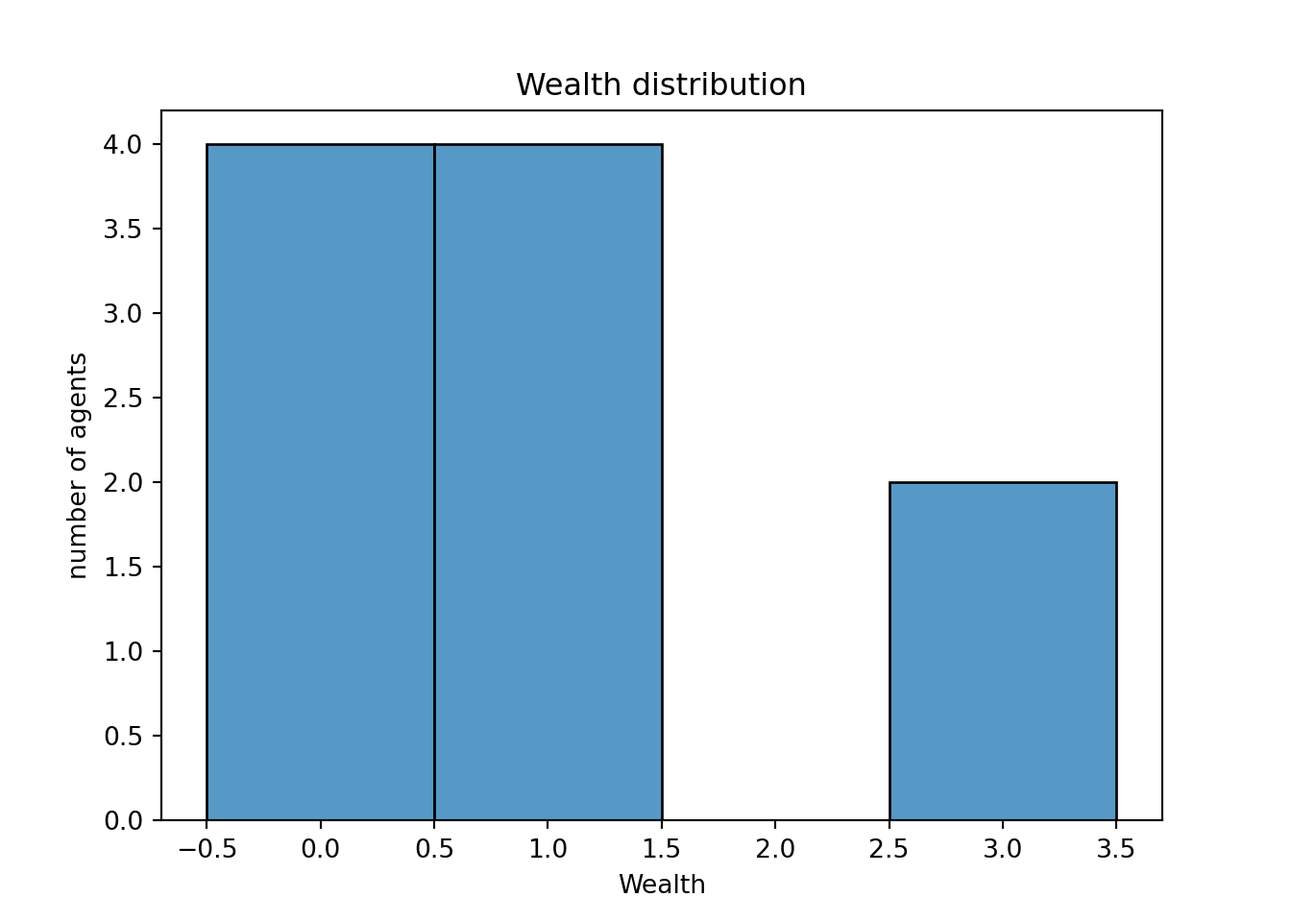
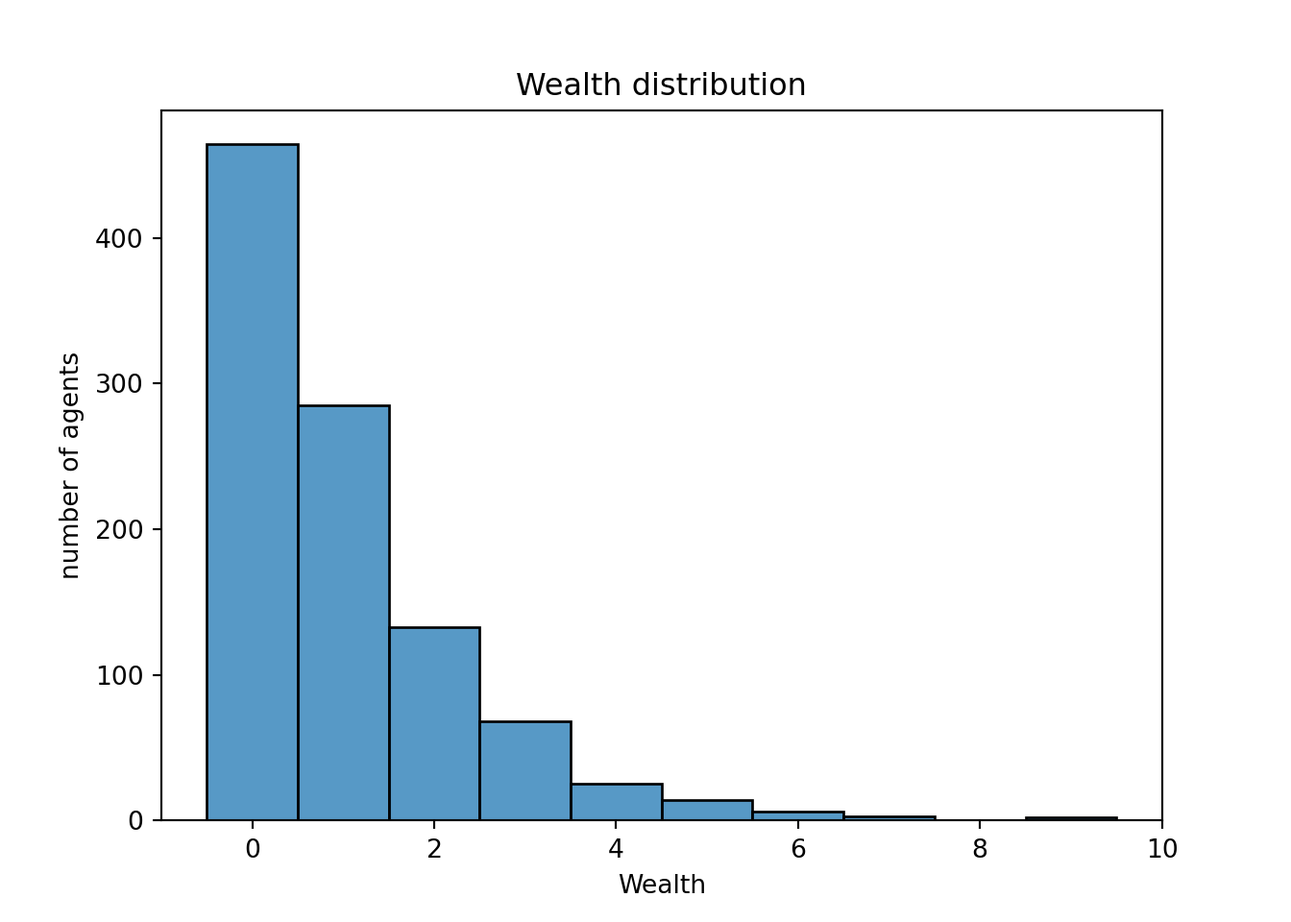
update

diff --git a/index.html b/index.html
@@ -96,18 +96,16 @@ pre > code.sourceCode > span > a:first-child::before { text-decoration: underlin
   <ul>
   <li><a href="#创建-agent-类" id="toc-创建-agent-类" class="nav-link" data-scroll-target="#创建-agent-类"><span class="header-section-number">2.1</span> 创建 Agent 类</a></li>
   <li><a href="#创建模型类" id="toc-创建模型类" class="nav-link" data-scroll-target="#创建模型类"><span class="header-section-number">2.2</span> 创建模型类</a></li>
-  <li><a href="#让-agents-do" id="toc-让-agents-do" class="nav-link" data-scroll-target="#让-agents-do"><span class="header-section-number">2.3</span> 让 Agents “do”</a></li>
-  <li><a href="#运行模型" id="toc-运行模型" class="nav-link" data-scroll-target="#运行模型"><span class="header-section-number">2.4</span> 运行模型</a>
+  <li><a href="#让-agents-do" id="toc-让-agents-do" class="nav-link" data-scroll-target="#让-agents-do"><span class="header-section-number">2.3</span> 让 Agents “do”</a>
   <ul>
-  <li><a href="#模型修改练习" id="toc-模型修改练习" class="nav-link" data-scroll-target="#模型修改练习"><span class="header-section-number">2.4.1</span> 模型修改练习</a></li>
+  <li><a href="#运行模型" id="toc-运行模型" class="nav-link" data-scroll-target="#运行模型"><span class="header-section-number">2.3.1</span> 运行模型</a></li>
+  <li><a href="#模型修改练习" id="toc-模型修改练习" class="nav-link" data-scroll-target="#模型修改练习"><span class="header-section-number">2.3.2</span> 模型修改练习</a></li>
   </ul></li>
-  <li><a href="#agents-exchange" id="toc-agents-exchange" class="nav-link" data-scroll-target="#agents-exchange"><span class="header-section-number">2.5</span> Agents Exchange</a>
+  <li><a href="#agents-交换财富" id="toc-agents-交换财富" class="nav-link" data-scroll-target="#agents-交换财富"><span class="header-section-number">2.4</span> Agents 交换财富</a>
   <ul>
-  <li><a href="#run-the-model" id="toc-run-the-model" class="nav-link" data-scroll-target="#run-the-model"><span class="header-section-number">2.5.1</span> Run the Model</a></li>
-  <li><a href="#visualize-the-model" id="toc-visualize-the-model" class="nav-link" data-scroll-target="#visualize-the-model"><span class="header-section-number">2.5.2</span> Visualize the Model</a>
-  <ul class="collapse">
-  <li><a href="#or-use-reticulate-to-import-data-into-r-and-use-ggplot2-to-visualize" id="toc-or-use-reticulate-to-import-data-into-r-and-use-ggplot2-to-visualize" class="nav-link" data-scroll-target="#or-use-reticulate-to-import-data-into-r-and-use-ggplot2-to-visualize"><span class="header-section-number">2.5.2.1</span> Or use reticulate to import data into R and use ggplot2 to visualize</a></li>
-  </ul></li>
+  <li><a href="#运行模型-1" id="toc-运行模型-1" class="nav-link" data-scroll-target="#运行模型-1"><span class="header-section-number">2.4.1</span> 运行模型</a></li>
+  <li><a href="#可视化" id="toc-可视化" class="nav-link" data-scroll-target="#可视化"><span class="header-section-number">2.4.2</span> 可视化</a></li>
+  <li><a href="#或者传入-r-中用-ggolot2-可视化" id="toc-或者传入-r-中用-ggolot2-可视化" class="nav-link" data-scroll-target="#或者传入-r-中用-ggolot2-可视化"><span class="header-section-number">2.4.3</span> 或者传入 R 中用 ggolot2 可视化</a></li>
   </ul></li>
   </ul></li>
   </ul>
@@ -200,7 +198,7 @@ pre > code.sourceCode > span > a:first-child::before { text-decoration: underlin
 <span id="cb4-4"><a href="#cb4-4" aria-hidden="true" tabindex="-1"></a>    <span class="co">#初始化，每次使用 MoneyAgent 创建新对象时都会使用如下初始化</span></span>
 <span id="cb4-5"><a href="#cb4-5" aria-hidden="true" tabindex="-1"></a>    <span class="kw">def</span> <span class="fu">__init__</span>(<span class="va">self</span>, model): <span class="co">#self代表当前对象，model 代表模型对象</span></span>
 <span id="cb4-6"><a href="#cb4-6" aria-hidden="true" tabindex="-1"></a>      </span>
-<span id="cb4-7"><a href="#cb4-7" aria-hidden="true" tabindex="-1"></a>        <span class="co"># 将参数 model 传递给父类 (mesa.Agent)，让Agent知道自己所属的模型</span></span>
+<span id="cb4-7"><a href="#cb4-7" aria-hidden="true" tabindex="-1"></a>        <span class="co"># 将父类中的参数 model (mesa.Agent) 传入，让Agent知道自己所属的模型</span></span>
 <span id="cb4-8"><a href="#cb4-8" aria-hidden="true" tabindex="-1"></a>        <span class="bu">super</span>().<span class="fu">__init__</span>(model)</span>
 <span id="cb4-9"><a href="#cb4-9" aria-hidden="true" tabindex="-1"></a></span>
 <span id="cb4-10"><a href="#cb4-10" aria-hidden="true" tabindex="-1"></a>        <span class="co"># 创建 Agent 的变量 wealth 并设置初始值</span></span>
@@ -259,9 +257,8 @@ pre > code.sourceCode > span > a:first-child::before { text-decoration: underlin
 <span id="cb6-29"><a href="#cb6-29" aria-hidden="true" tabindex="-1"></a>        <span class="co">#随机重新排序 Agent 的激活顺序，并调用每个 Agent 的 say_hi 方法</span></span>
 <span id="cb6-30"><a href="#cb6-30" aria-hidden="true" tabindex="-1"></a>        <span class="va">self</span>.agents.shuffle_do(<span class="st">"say_hi"</span>)</span></code><button title="Copy to Clipboard" class="code-copy-button"><i class="bi"></i></button></pre></div>
 </div>
-</section>
-<section id="运行模型" class="level2" data-number="2.4">
-<h2 data-number="2.4" class="anchored" data-anchor-id="运行模型"><span class="header-section-number">2.4</span> 运行模型</h2>
+<section id="运行模型" class="level3" data-number="2.3.1">
+<h3 data-number="2.3.1" class="anchored" data-anchor-id="运行模型"><span class="header-section-number">2.3.1</span> 运行模型</h3>
 <p>创建一个模型对象 (object) 并运行它的 step 方法。</p>
 <div class="cell language-marker" data-display-language="true">
 <div class="sourceCode cell-code" id="cb7"><pre class="sourceCode python code-with-copy"><code class="sourceCode python"><span id="cb7-1"><a href="#cb7-1" aria-hidden="true" tabindex="-1"></a><span class="co">#创建模型对象 starter_model，使用 MoneyModel 类</span></span>
@@ -271,16 +268,16 @@ pre > code.sourceCode > span > a:first-child::before { text-decoration: underlin
 <span id="cb7-5"><a href="#cb7-5" aria-hidden="true" tabindex="-1"></a><span class="co">#运行模型的 step 方法，激活所有 Agent</span></span>
 <span id="cb7-6"><a href="#cb7-6" aria-hidden="true" tabindex="-1"></a>starter_model.step()</span></code><button title="Copy to Clipboard" class="code-copy-button"><i class="bi"></i></button></pre></div>
 <div class="cell-output cell-output-stdout">
-<pre><code>Hi, I am an agent, you can call me 10.
-Hi, I am an agent, you can call me 4.
+<pre><code>Hi, I am an agent, you can call me 7.
+Hi, I am an agent, you can call me 10.
 Hi, I am an agent, you can call me 6.
-Hi, I am an agent, you can call me 2.
-Hi, I am an agent, you can call me 9.
 Hi, I am an agent, you can call me 3.
 Hi, I am an agent, you can call me 8.
 Hi, I am an agent, you can call me 5.
+Hi, I am an agent, you can call me 4.
 Hi, I am an agent, you can call me 1.
-Hi, I am an agent, you can call me 7.</code></pre>
+Hi, I am an agent, you can call me 2.
+Hi, I am an agent, you can call me 9.</code></pre>
 </div>
 </div>
 <p>如果在创建对象时传入了 seed 参数，则每次运行模型时 Agent 的顺序会保持一致。</p>
@@ -300,8 +297,9 @@ Hi, I am an agent, you can call me 2.
 Hi, I am an agent, you can call me 8.</code></pre>
 </div>
 </div>
-<section id="模型修改练习" class="level3" data-number="2.4.1">
-<h3 data-number="2.4.1" class="anchored" data-anchor-id="模型修改练习"><span class="header-section-number">2.4.1</span> 模型修改练习</h3>
+</section>
+<section id="模型修改练习" class="level3" data-number="2.3.2">
+<h3 data-number="2.3.2" class="anchored" data-anchor-id="模型修改练习"><span class="header-section-number">2.3.2</span> 模型修改练习</h3>
 <p>在原有模型的基础上，让 Agent 在激活时输出自己的 wealth。</p>
 <div class="cell language-marker" data-display-language="true">
 <div class="sourceCode cell-code" id="cb11"><pre class="sourceCode python code-with-copy"><code class="sourceCode python"><span id="cb11-1"><a href="#cb11-1" aria-hidden="true" tabindex="-1"></a><span class="kw">class</span> MoneyAgent(mesa.Agent):</span>
@@ -334,82 +332,79 @@ Hi, I am an agent, you can call me 8.</code></pre>
 <span id="cb11-28"><a href="#cb11-28" aria-hidden="true" tabindex="-1"></a>starter_model <span class="op">=</span> MoneyModel(<span class="dv">10</span>)</span>
 <span id="cb11-29"><a href="#cb11-29" aria-hidden="true" tabindex="-1"></a>starter_model.step()</span></code><button title="Copy to Clipboard" class="code-copy-button"><i class="bi"></i></button></pre></div>
 <div class="cell-output cell-output-stdout">
-<pre><code>Hi, I am an agent 3,and I have 1 dollars.
-Hi, I am an agent 1,and I have 1 dollars.
-Hi, I am an agent 6,and I have 1 dollars.
-Hi, I am an agent 10,and I have 1 dollars.
-Hi, I am an agent 8,and I have 1 dollars.
-Hi, I am an agent 7,and I have 1 dollars.
-Hi, I am an agent 5,and I have 1 dollars.
+<pre><code>Hi, I am an agent 8,and I have 1 dollars.
 Hi, I am an agent 2,and I have 1 dollars.
-Hi, I am an agent 9,and I have 1 dollars.
-Hi, I am an agent 4,and I have 1 dollars.</code></pre>
+Hi, I am an agent 1,and I have 1 dollars.
+Hi, I am an agent 4,and I have 1 dollars.
+Hi, I am an agent 6,and I have 1 dollars.
+Hi, I am an agent 7,and I have 1 dollars.
+Hi, I am an agent 10,and I have 1 dollars.
+Hi, I am an agent 3,and I have 1 dollars.
+Hi, I am an agent 5,and I have 1 dollars.
+Hi, I am an agent 9,and I have 1 dollars.</code></pre>
 </div>
 </div>
 </section>
 </section>
-<section id="agents-exchange" class="level2" data-number="2.5">
-<h2 data-number="2.5" class="anchored" data-anchor-id="agents-exchange"><span class="header-section-number">2.5</span> Agents Exchange</h2>
+<section id="agents-交换财富" class="level2" data-number="2.4">
+<h2 data-number="2.4" class="anchored" data-anchor-id="agents-交换财富"><span class="header-section-number">2.4</span> Agents 交换财富</h2>
 <div class="cell language-marker" data-display-language="true">
 <div class="sourceCode cell-code" id="cb13"><pre class="sourceCode python code-with-copy"><code class="sourceCode python"><span id="cb13-1"><a href="#cb13-1" aria-hidden="true" tabindex="-1"></a><span class="kw">class</span> MoneyAgent(mesa.Agent):</span>
 <span id="cb13-2"><a href="#cb13-2" aria-hidden="true" tabindex="-1"></a>    <span class="co">"""An agent with fixed initial wealth."""</span></span>
 <span id="cb13-3"><a href="#cb13-3" aria-hidden="true" tabindex="-1"></a></span>
 <span id="cb13-4"><a href="#cb13-4" aria-hidden="true" tabindex="-1"></a>    <span class="kw">def</span> <span class="fu">__init__</span>(<span class="va">self</span>, model):</span>
-<span id="cb13-5"><a href="#cb13-5" aria-hidden="true" tabindex="-1"></a>        <span class="co"># Pass the parameters to the parent class.</span></span>
-<span id="cb13-6"><a href="#cb13-6" aria-hidden="true" tabindex="-1"></a>        <span class="bu">super</span>().<span class="fu">__init__</span>(model)</span>
-<span id="cb13-7"><a href="#cb13-7" aria-hidden="true" tabindex="-1"></a></span>
-<span id="cb13-8"><a href="#cb13-8" aria-hidden="true" tabindex="-1"></a>        <span class="co"># Create the agent's variable and set the initial values.</span></span>
-<span id="cb13-9"><a href="#cb13-9" aria-hidden="true" tabindex="-1"></a>        <span class="va">self</span>.wealth <span class="op">=</span> <span class="dv">1</span></span>
-<span id="cb13-10"><a href="#cb13-10" aria-hidden="true" tabindex="-1"></a></span>
-<span id="cb13-11"><a href="#cb13-11" aria-hidden="true" tabindex="-1"></a>    <span class="kw">def</span> exchange(<span class="va">self</span>):</span>
-<span id="cb13-12"><a href="#cb13-12" aria-hidden="true" tabindex="-1"></a>        <span class="co"># Verify agent has some wealth</span></span>
-<span id="cb13-13"><a href="#cb13-13" aria-hidden="true" tabindex="-1"></a>        <span class="cf">if</span> <span class="va">self</span>.wealth <span class="op">&gt;</span> <span class="dv">0</span>:</span>
+<span id="cb13-5"><a href="#cb13-5" aria-hidden="true" tabindex="-1"></a>        <span class="bu">super</span>().<span class="fu">__init__</span>(model)</span>
+<span id="cb13-6"><a href="#cb13-6" aria-hidden="true" tabindex="-1"></a>        <span class="va">self</span>.wealth <span class="op">=</span> <span class="dv">1</span></span>
+<span id="cb13-7"><a href="#cb13-7" aria-hidden="true" tabindex="-1"></a>        </span>
+<span id="cb13-8"><a href="#cb13-8" aria-hidden="true" tabindex="-1"></a>    <span class="co"># 定义 exchange 方法，让 Agent 交换财富</span></span>
+<span id="cb13-9"><a href="#cb13-9" aria-hidden="true" tabindex="-1"></a>    <span class="kw">def</span> exchange(<span class="va">self</span>):</span>
+<span id="cb13-10"><a href="#cb13-10" aria-hidden="true" tabindex="-1"></a>        <span class="cf">if</span> <span class="va">self</span>.wealth <span class="op">&gt;</span> <span class="dv">0</span>: <span class="co">#有钱才能转账</span></span>
+<span id="cb13-11"><a href="#cb13-11" aria-hidden="true" tabindex="-1"></a>            <span class="co">#self.random, 是继承自 mesa.Agent 的随机数生成器</span></span>
+<span id="cb13-12"><a href="#cb13-12" aria-hidden="true" tabindex="-1"></a>            <span class="co">#.choice(...) 在列表中随机选择一个 Agent</span></span>
+<span id="cb13-13"><a href="#cb13-13" aria-hidden="true" tabindex="-1"></a>            <span class="co">#这里的self.model是在上一步—__init__中传入的模型对象</span></span>
 <span id="cb13-14"><a href="#cb13-14" aria-hidden="true" tabindex="-1"></a>            other_agent <span class="op">=</span> <span class="va">self</span>.random.choice(<span class="va">self</span>.model.agents)</span>
-<span id="cb13-15"><a href="#cb13-15" aria-hidden="true" tabindex="-1"></a>            <span class="cf">if</span> other_agent <span class="kw">is</span> <span class="kw">not</span> <span class="va">None</span>:</span>
-<span id="cb13-16"><a href="#cb13-16" aria-hidden="true" tabindex="-1"></a>                other_agent.wealth <span class="op">+=</span> <span class="dv">1</span></span>
-<span id="cb13-17"><a href="#cb13-17" aria-hidden="true" tabindex="-1"></a>                <span class="va">self</span>.wealth <span class="op">-=</span> <span class="dv">1</span></span>
-<span id="cb13-18"><a href="#cb13-18" aria-hidden="true" tabindex="-1"></a></span>
+<span id="cb13-15"><a href="#cb13-15" aria-hidden="true" tabindex="-1"></a>            </span>
+<span id="cb13-16"><a href="#cb13-16" aria-hidden="true" tabindex="-1"></a>            <span class="cf">if</span> other_agent <span class="kw">is</span> <span class="kw">not</span> <span class="va">None</span>: <span class="co">#确保选到了一个 Agent</span></span>
+<span id="cb13-17"><a href="#cb13-17" aria-hidden="true" tabindex="-1"></a>                other_agent.wealth <span class="op">+=</span> <span class="dv">1</span></span>
+<span id="cb13-18"><a href="#cb13-18" aria-hidden="true" tabindex="-1"></a>                <span class="va">self</span>.wealth <span class="op">-=</span> <span class="dv">1</span></span>
 <span id="cb13-19"><a href="#cb13-19" aria-hidden="true" tabindex="-1"></a></span>
-<span id="cb13-20"><a href="#cb13-20" aria-hidden="true" tabindex="-1"></a><span class="kw">class</span> MoneyModel(mesa.Model):</span>
-<span id="cb13-21"><a href="#cb13-21" aria-hidden="true" tabindex="-1"></a>    <span class="co">"""A model with some number of agents."""</span></span>
-<span id="cb13-22"><a href="#cb13-22" aria-hidden="true" tabindex="-1"></a></span>
-<span id="cb13-23"><a href="#cb13-23" aria-hidden="true" tabindex="-1"></a>    <span class="kw">def</span> <span class="fu">__init__</span>(<span class="va">self</span>, n):</span>
-<span id="cb13-24"><a href="#cb13-24" aria-hidden="true" tabindex="-1"></a>        <span class="bu">super</span>().<span class="fu">__init__</span>()</span>
-<span id="cb13-25"><a href="#cb13-25" aria-hidden="true" tabindex="-1"></a>        <span class="va">self</span>.num_agents <span class="op">=</span> n</span>
-<span id="cb13-26"><a href="#cb13-26" aria-hidden="true" tabindex="-1"></a></span>
-<span id="cb13-27"><a href="#cb13-27" aria-hidden="true" tabindex="-1"></a>        <span class="co"># Create agents</span></span>
+<span id="cb13-20"><a href="#cb13-20" aria-hidden="true" tabindex="-1"></a></span>
+<span id="cb13-21"><a href="#cb13-21" aria-hidden="true" tabindex="-1"></a><span class="kw">class</span> MoneyModel(mesa.Model):</span>
+<span id="cb13-22"><a href="#cb13-22" aria-hidden="true" tabindex="-1"></a>    <span class="co">"""A model with some number of agents."""</span></span>
+<span id="cb13-23"><a href="#cb13-23" aria-hidden="true" tabindex="-1"></a></span>
+<span id="cb13-24"><a href="#cb13-24" aria-hidden="true" tabindex="-1"></a>    <span class="kw">def</span> <span class="fu">__init__</span>(<span class="va">self</span>, n, seed<span class="op">=</span><span class="va">None</span>):</span>
+<span id="cb13-25"><a href="#cb13-25" aria-hidden="true" tabindex="-1"></a>        <span class="bu">super</span>().<span class="fu">__init__</span>(seed <span class="op">=</span> seed)</span>
+<span id="cb13-26"><a href="#cb13-26" aria-hidden="true" tabindex="-1"></a>        <span class="va">self</span>.num_agents <span class="op">=</span> n</span>
+<span id="cb13-27"><a href="#cb13-27" aria-hidden="true" tabindex="-1"></a></span>
 <span id="cb13-28"><a href="#cb13-28" aria-hidden="true" tabindex="-1"></a>        MoneyAgent.create_agents(model<span class="op">=</span><span class="va">self</span>, n<span class="op">=</span>n)</span>
 <span id="cb13-29"><a href="#cb13-29" aria-hidden="true" tabindex="-1"></a></span>
 <span id="cb13-30"><a href="#cb13-30" aria-hidden="true" tabindex="-1"></a>    <span class="kw">def</span> step(<span class="va">self</span>):</span>
 <span id="cb13-31"><a href="#cb13-31" aria-hidden="true" tabindex="-1"></a>        <span class="co">"""Advance the model by one step."""</span></span>
 <span id="cb13-32"><a href="#cb13-32" aria-hidden="true" tabindex="-1"></a></span>
-<span id="cb13-33"><a href="#cb13-33" aria-hidden="true" tabindex="-1"></a>        <span class="co"># This function psuedo-randomly reorders the list of agent objects and</span></span>
-<span id="cb13-34"><a href="#cb13-34" aria-hidden="true" tabindex="-1"></a>        <span class="co"># then iterates through calling the function passed in as the parameter</span></span>
-<span id="cb13-35"><a href="#cb13-35" aria-hidden="true" tabindex="-1"></a>        <span class="va">self</span>.agents.shuffle_do(<span class="st">"exchange"</span>)</span></code><button title="Copy to Clipboard" class="code-copy-button"><i class="bi"></i></button></pre></div>
+<span id="cb13-33"><a href="#cb13-33" aria-hidden="true" tabindex="-1"></a>        <span class="va">self</span>.agents.shuffle_do(<span class="st">"exchange"</span>)</span></code><button title="Copy to Clipboard" class="code-copy-button"><i class="bi"></i></button></pre></div>
 </div>
-<section id="run-the-model" class="level3" data-number="2.5.1">
-<h3 data-number="2.5.1" class="anchored" data-anchor-id="run-the-model"><span class="header-section-number">2.5.1</span> Run the Model</h3>
+<section id="运行模型-1" class="level3" data-number="2.4.1">
+<h3 data-number="2.4.1" class="anchored" data-anchor-id="运行模型-1"><span class="header-section-number">2.4.1</span> 运行模型</h3>
 <div class="cell language-marker" data-display-language="true">
-<div class="sourceCode cell-code" id="cb14"><pre class="sourceCode python code-with-copy"><code class="sourceCode python"><span id="cb14-1"><a href="#cb14-1" aria-hidden="true" tabindex="-1"></a>model <span class="op">=</span> MoneyModel(<span class="dv">10</span>)  <span class="co"># Tells the model to create 10 agents</span></span>
-<span id="cb14-2"><a href="#cb14-2" aria-hidden="true" tabindex="-1"></a><span class="cf">for</span> _ <span class="kw">in</span> <span class="bu">range</span>(</span>
-<span id="cb14-3"><a href="#cb14-3" aria-hidden="true" tabindex="-1"></a>    <span class="dv">30</span></span>
-<span id="cb14-4"><a href="#cb14-4" aria-hidden="true" tabindex="-1"></a>):  <span class="co"># Runs the model for 10 steps; an underscore is common convention for a variable that is not used</span></span>
-<span id="cb14-5"><a href="#cb14-5" aria-hidden="true" tabindex="-1"></a>    model.step()</span></code><button title="Copy to Clipboard" class="code-copy-button"><i class="bi"></i></button></pre></div>
+<div class="sourceCode cell-code" id="cb14"><pre class="sourceCode python code-with-copy"><code class="sourceCode python"><span id="cb14-1"><a href="#cb14-1" aria-hidden="true" tabindex="-1"></a>model <span class="op">=</span> MoneyModel(<span class="dv">1000</span>, <span class="dv">1234</span>)  <span class="co"># 创建 1000 个 Agents</span></span>
+<span id="cb14-2"><a href="#cb14-2" aria-hidden="true" tabindex="-1"></a></span>
+<span id="cb14-3"><a href="#cb14-3" aria-hidden="true" tabindex="-1"></a><span class="co">#这个 for 循环中 _ 是一个占位符</span></span>
+<span id="cb14-4"><a href="#cb14-4" aria-hidden="true" tabindex="-1"></a><span class="co">#表示我们不关心循环变量的值，也不关心现在运行了几次，只是想运行30次</span></span>
+<span id="cb14-5"><a href="#cb14-5" aria-hidden="true" tabindex="-1"></a><span class="cf">for</span> _ <span class="kw">in</span> <span class="bu">range</span>(<span class="dv">30</span>): </span>
+<span id="cb14-6"><a href="#cb14-6" aria-hidden="true" tabindex="-1"></a>    model.step()</span></code><button title="Copy to Clipboard" class="code-copy-button"><i class="bi"></i></button></pre></div>
 </div>
 </section>
-<section id="visualize-the-model" class="level3" data-number="2.5.2">
-<h3 data-number="2.5.2" class="anchored" data-anchor-id="visualize-the-model"><span class="header-section-number">2.5.2</span> Visualize the Model</h3>
+<section id="可视化" class="level3" data-number="2.4.2">
+<h3 data-number="2.4.2" class="anchored" data-anchor-id="可视化"><span class="header-section-number">2.4.2</span> 可视化</h3>
 <div class="cell language-marker" data-display-language="true">
-<div class="sourceCode cell-code" id="cb15"><pre class="sourceCode python code-with-copy"><code class="sourceCode python"><span id="cb15-1"><a href="#cb15-1" aria-hidden="true" tabindex="-1"></a>agent_wealth <span class="op">=</span> [a.wealth <span class="cf">for</span> a <span class="kw">in</span> model.agents]</span>
-<span id="cb15-2"><a href="#cb15-2" aria-hidden="true" tabindex="-1"></a><span class="co"># Create a histogram with seaborn</span></span>
-<span id="cb15-3"><a href="#cb15-3" aria-hidden="true" tabindex="-1"></a>g <span class="op">=</span> sns.histplot(agent_wealth, discrete<span class="op">=</span><span class="va">True</span>)</span>
-<span id="cb15-4"><a href="#cb15-4" aria-hidden="true" tabindex="-1"></a>g.<span class="bu">set</span>(</span>
-<span id="cb15-5"><a href="#cb15-5" aria-hidden="true" tabindex="-1"></a>    title<span class="op">=</span><span class="st">"Wealth distribution"</span>, xlabel<span class="op">=</span><span class="st">"Wealth"</span>, ylabel<span class="op">=</span><span class="st">"number of agents"</span></span>
-<span id="cb15-6"><a href="#cb15-6" aria-hidden="true" tabindex="-1"></a>)<span class="op">;</span>  <span class="co"># The semicolon is just to avoid printing the object representation</span></span></code><button title="Copy to Clipboard" class="code-copy-button"><i class="bi"></i></button></pre></div>
-<div class="cell-output cell-output-stdout">
-<pre><code>[Text(0.5, 1.0, 'Wealth distribution'), Text(0.5, 0, 'Wealth'), Text(0, 0.5, 'number of agents')]</code></pre>
-</div>
-<div class="sourceCode cell-code" id="cb17"><pre class="sourceCode python code-with-copy"><code class="sourceCode python"><span id="cb17-1"><a href="#cb17-1" aria-hidden="true" tabindex="-1"></a>plt.show()</span></code><button title="Copy to Clipboard" class="code-copy-button"><i class="bi"></i></button></pre></div>
+<div class="sourceCode cell-code" id="cb15"><pre class="sourceCode python code-with-copy"><code class="sourceCode python"><span id="cb15-1"><a href="#cb15-1" aria-hidden="true" tabindex="-1"></a><span class="co"># 获取每个 Agent 的 wealth，放入一个列表</span></span>
+<span id="cb15-2"><a href="#cb15-2" aria-hidden="true" tabindex="-1"></a>agent_wealth <span class="op">=</span> [a.wealth <span class="cf">for</span> a <span class="kw">in</span> model.agents]</span>
+<span id="cb15-3"><a href="#cb15-3" aria-hidden="true" tabindex="-1"></a><span class="co"># 绘制直方图</span></span>
+<span id="cb15-4"><a href="#cb15-4" aria-hidden="true" tabindex="-1"></a>g <span class="op">=</span> sns.histplot(agent_wealth, discrete<span class="op">=</span><span class="va">True</span>)</span>
+<span id="cb15-5"><a href="#cb15-5" aria-hidden="true" tabindex="-1"></a>g.<span class="bu">set</span>(</span>
+<span id="cb15-6"><a href="#cb15-6" aria-hidden="true" tabindex="-1"></a>    title<span class="op">=</span><span class="st">"Wealth distribution"</span>, xlabel<span class="op">=</span><span class="st">"Wealth"</span>, ylabel<span class="op">=</span><span class="st">"number of agents"</span></span>
+<span id="cb15-7"><a href="#cb15-7" aria-hidden="true" tabindex="-1"></a>)<span class="op">;</span></span>
+<span id="cb15-8"><a href="#cb15-8" aria-hidden="true" tabindex="-1"></a>plt.show()</span></code><button title="Copy to Clipboard" class="code-copy-button"><i class="bi"></i></button></pre></div>
 <div class="cell-output-display">
 <div>
 <figure class="figure">
@@ -418,11 +413,11 @@ Hi, I am an agent 4,and I have 1 dollars.</code></pre>
 </div>
 </div>
 </div>
-<section id="or-use-reticulate-to-import-data-into-r-and-use-ggplot2-to-visualize" class="level4" data-number="2.5.2.1">
-<h4 data-number="2.5.2.1" class="anchored" data-anchor-id="or-use-reticulate-to-import-data-into-r-and-use-ggplot2-to-visualize"><span class="header-section-number">2.5.2.1</span> Or use reticulate to import data into R and use ggplot2 to visualize</h4>
+</section>
+<section id="或者传入-r-中用-ggolot2-可视化" class="level3" data-number="2.4.3">
+<h3 data-number="2.4.3" class="anchored" data-anchor-id="或者传入-r-中用-ggolot2-可视化"><span class="header-section-number">2.4.3</span> 或者传入 R 中用 ggolot2 可视化</h3>
 <div class="cell language-marker" data-display-language="true">
-<div class="sourceCode cell-code" id="cb18"><pre class="sourceCode r code-with-copy"><code class="sourceCode r"><span id="cb18-1"><a href="#cb18-1" aria-hidden="true" tabindex="-1"></a><span class="fu">library</span>(reticulate)</span>
-<span id="cb18-2"><a href="#cb18-2" aria-hidden="true" tabindex="-1"></a><span class="fu">library</span>(tidyverse)</span></code><button title="Copy to Clipboard" class="code-copy-button"><i class="bi"></i></button></pre></div>
+<div class="sourceCode cell-code" id="cb16"><pre class="sourceCode r code-with-copy"><code class="sourceCode r"><span id="cb16-1"><a href="#cb16-1" aria-hidden="true" tabindex="-1"></a><span class="fu">library</span>(tidyverse)</span></code><button title="Copy to Clipboard" class="code-copy-button"><i class="bi"></i></button></pre></div>
 <div class="cell-output cell-output-stderr">
 <pre><code>── Attaching core tidyverse packages ──────────────────────── tidyverse 2.0.0 ──
 ✔ dplyr     1.1.4     ✔ readr     2.1.5
@@ -435,16 +430,17 @@ Hi, I am an agent 4,and I have 1 dollars.</code></pre>
 ✖ dplyr::lag()    masks stats::lag()
 ℹ Use the conflicted package (&lt;http://conflicted.r-lib.org/&gt;) to force all conflicts to become errors</code></pre>
 </div>
-<div class="sourceCode cell-code" id="cb20"><pre class="sourceCode r code-with-copy"><code class="sourceCode r"><span id="cb20-1"><a href="#cb20-1" aria-hidden="true" tabindex="-1"></a>agent_wealth_r <span class="ot">&lt;-</span> <span class="fu">tibble</span>(<span class="at">wealth =</span> py<span class="sc">$</span>agent_wealth)</span>
-<span id="cb20-2"><a href="#cb20-2" aria-hidden="true" tabindex="-1"></a></span>
-<span id="cb20-3"><a href="#cb20-3" aria-hidden="true" tabindex="-1"></a><span class="fu">ggplot</span>(agent_wealth_r, <span class="fu">aes</span>(<span class="at">x =</span> wealth)) <span class="sc">+</span></span>
-<span id="cb20-4"><a href="#cb20-4" aria-hidden="true" tabindex="-1"></a>  <span class="fu">geom_histogram</span>(<span class="at">binwidth =</span> <span class="dv">1</span>, <span class="at">boundary =</span> <span class="dv">0</span>, <span class="at">closed =</span> <span class="st">"left"</span>,</span>
-<span id="cb20-5"><a href="#cb20-5" aria-hidden="true" tabindex="-1"></a>                 <span class="at">color =</span> <span class="st">"black"</span>, <span class="at">fill=</span><span class="st">"darkgreen"</span>) <span class="sc">+</span></span>
-<span id="cb20-6"><a href="#cb20-6" aria-hidden="true" tabindex="-1"></a>  <span class="fu">labs</span>(</span>
-<span id="cb20-7"><a href="#cb20-7" aria-hidden="true" tabindex="-1"></a>    <span class="at">title =</span> <span class="st">"Wealth distribution"</span>,</span>
-<span id="cb20-8"><a href="#cb20-8" aria-hidden="true" tabindex="-1"></a>    <span class="at">x     =</span> <span class="st">"Wealth"</span>,</span>
-<span id="cb20-9"><a href="#cb20-9" aria-hidden="true" tabindex="-1"></a>    <span class="at">y     =</span> <span class="st">"Number of agents"</span></span>
-<span id="cb20-10"><a href="#cb20-10" aria-hidden="true" tabindex="-1"></a>  )<span class="sc">+</span> <span class="fu">theme_bw</span>()</span></code><button title="Copy to Clipboard" class="code-copy-button"><i class="bi"></i></button></pre></div>
+<div class="sourceCode cell-code" id="cb18"><pre class="sourceCode r code-with-copy"><code class="sourceCode r"><span id="cb18-1"><a href="#cb18-1" aria-hidden="true" tabindex="-1"></a><span class="co">#所有的 python 对象都可以用 py$... 来访问</span></span>
+<span id="cb18-2"><a href="#cb18-2" aria-hidden="true" tabindex="-1"></a>agent_wealth_r <span class="ot">&lt;-</span> <span class="fu">tibble</span>(<span class="at">wealth =</span> py<span class="sc">$</span>agent_wealth)</span>
+<span id="cb18-3"><a href="#cb18-3" aria-hidden="true" tabindex="-1"></a></span>
+<span id="cb18-4"><a href="#cb18-4" aria-hidden="true" tabindex="-1"></a><span class="fu">ggplot</span>(agent_wealth_r, <span class="fu">aes</span>(<span class="at">x =</span> wealth)) <span class="sc">+</span></span>
+<span id="cb18-5"><a href="#cb18-5" aria-hidden="true" tabindex="-1"></a>  <span class="fu">geom_histogram</span>(<span class="at">binwidth =</span> <span class="dv">1</span>, <span class="at">boundary =</span> <span class="dv">0</span>, <span class="at">closed =</span> <span class="st">"left"</span>,</span>
+<span id="cb18-6"><a href="#cb18-6" aria-hidden="true" tabindex="-1"></a>                 <span class="at">color =</span> <span class="st">"black"</span>, <span class="at">fill=</span><span class="st">"red"</span>) <span class="sc">+</span></span>
+<span id="cb18-7"><a href="#cb18-7" aria-hidden="true" tabindex="-1"></a>  <span class="fu">labs</span>(</span>
+<span id="cb18-8"><a href="#cb18-8" aria-hidden="true" tabindex="-1"></a>    <span class="at">title =</span> <span class="st">"Wealth distribution"</span>,</span>
+<span id="cb18-9"><a href="#cb18-9" aria-hidden="true" tabindex="-1"></a>    <span class="at">x     =</span> <span class="st">"Wealth"</span>,</span>
+<span id="cb18-10"><a href="#cb18-10" aria-hidden="true" tabindex="-1"></a>    <span class="at">y     =</span> <span class="st">"Number of agents"</span></span>
+<span id="cb18-11"><a href="#cb18-11" aria-hidden="true" tabindex="-1"></a>  )<span class="sc">+</span> <span class="fu">theme_bw</span>()</span></code><button title="Copy to Clipboard" class="code-copy-button"><i class="bi"></i></button></pre></div>
 <div class="cell-output-display">
 <div>
 <figure class="figure">
@@ -453,7 +449,6 @@ Hi, I am an agent 4,and I have 1 dollars.</code></pre>
 </div>
 </div>
 </div>
-</section>
 </section>
 </section>
 </section>
